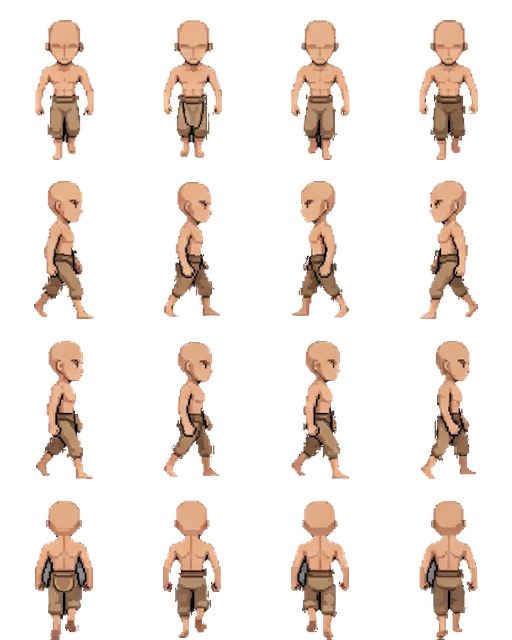
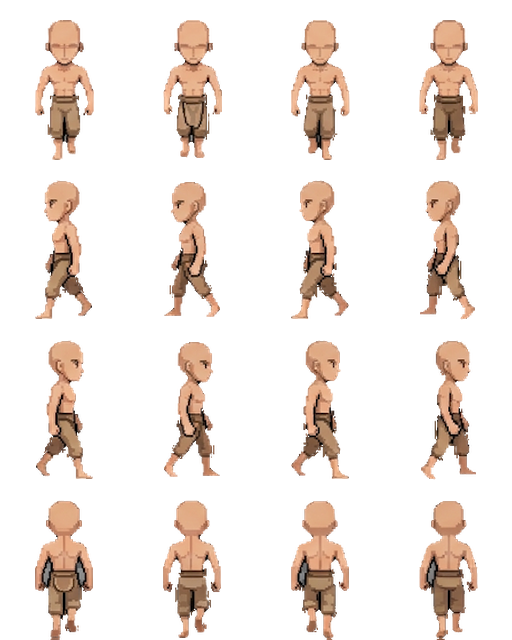
feat: update hero body spritesheets to mirror left-facing animations and adjust related logic

diff --git a/src/game/heroBody.js b/src/game/heroBody.js
@@ -3,14 +3,16 @@
  *
  * Four rows (front, left, right, back) x four walk frames. The runtime frames
  * are produced by scripts/build_hero_body.py, which re-anchors every frame to a
- * shared ground line and scaling so the body lines up with the old rig's feet.
+ * shared ground line and scaling so the body lines up with the old rig's feet,
+ * and rebuilds the left row as a mirror of the right row so each row holds one
+ * fixed facing.
  */
 
 import { HERO_DIRECTIONS } from "./heroDirections.js";
 import { normalizeGender } from "./gender.js";
 
 /** Bump this whenever the sheets are regenerated so browsers drop cached art. */
-const BODY_ASSET_VERSION = "2";
+const BODY_ASSET_VERSION = "3";
 
 export const HERO_BODY_TEXTURES = {
   male: { key: "hero-body-male", url: `/hero-body-male.png?v=${BODY_ASSET_VERSION}` },
@@ -36,23 +38,8 @@ export const HERO_BODY = {
   footOffsetY: FRAME_BOTTOM_MARGIN_PX * BODY_SCALE
 };
 
-/**
- * Sheet row for each of the eight facing directions.
- *
- * Row 1 (the source art's "left" row) is inconsistent: its first two walk
- * frames are drawn facing right and its last two facing left, so playing it
- * spins the hero on the spot. Row 2 is a complete, consistent right-facing
- * walk cycle, so every side-facing direction uses it and left-facing
- * directions mirror the sprite (see bodyMirrorsForDirection).
- */
-const ROW_BY_DIRECTION = [0, 2, 2, 2, 3, 2, 2, 2];
-
-/**
- * The source art has no distinct left profile: the "left" row is drawn facing
- * right, same as the right row. Left-facing directions therefore draw the sheet
- * mirrored so the hero looks the way it walks.
- */
-const MIRRORED_DIRECTIONS = [5, 6, 7];
+/** Sheet row for each of the eight facing directions (see heroDirections.js). */
+const ROW_BY_DIRECTION = [0, 2, 2, 2, 3, 1, 1, 1];
 
 /**
  * @param {"male"|"female"} gender
@@ -70,17 +57,6 @@ export function bodyRowForDirection(direction = 0) {
   const value = Number.isFinite(direction) ? direction : 0;
   const d = ((Math.round(value) % HERO_DIRECTIONS) + HERO_DIRECTIONS) % HERO_DIRECTIONS;
   return ROW_BY_DIRECTION[d];
-}
-
-/**
- * Whether the body sheet must be flipped horizontally for this direction.
- * @param {number} direction 0..7 (see heroDirections.js)
- * @returns {boolean}
- */
-export function bodyMirrorsForDirection(direction = 0) {
-  const value = Number.isFinite(direction) ? direction : 0;
-  const d = ((Math.round(value) % HERO_DIRECTIONS) + HERO_DIRECTIONS) % HERO_DIRECTIONS;
-  return MIRRORED_DIRECTIONS.includes(d);
 }
 
 /**

diff --git a/src/game/heroBody.test.js b/src/game/heroBody.test.js
@@ -1,10 +1,5 @@
 import { describe, expect, it } from "vitest";
-import {
-  bodyFrameForDirection,
-  bodyMirrorsForDirection,
-  bodyRowForDirection,
-  bodyTextureFor
-} from "./heroBody.js";
+import { bodyFrameForDirection, bodyRowForDirection, bodyTextureFor } from "./heroBody.js";
 
 describe("heroBody", () => {
   it("picks the sheet for each gender and falls back to male", () => {
@@ -15,26 +10,15 @@ describe("heroBody", () => {
 
   it("maps the eight directions onto the four sheet rows", () => {
     expect([0, 1, 2, 3, 4, 5, 6, 7].map(bodyRowForDirection)).toEqual([
-      0, 2, 2, 2, 3, 2, 2, 2
+      0, 2, 2, 2, 3, 1, 1, 1
     ]);
   });
 
   it("wraps out-of-range directions and ignores non-finite input", () => {
-    expect(bodyRowForDirection(-2)).toBe(2); // -2 wraps to direction 6 (left)
+    expect(bodyRowForDirection(-2)).toBe(1); // -2 wraps to direction 6 (left)
     expect(bodyRowForDirection(9)).toBe(2); // 9 wraps to direction 1 (down-right)
     expect(bodyRowForDirection(Number.NaN)).toBe(0);
     expect(bodyFrameForDirection(0, Number.NaN)).toBe(0);
-  });
-
-  it("mirrors the sheet for left-facing directions", () => {
-    expect(bodyMirrorsForDirection(6)).toBe(true); // left
-    expect(bodyMirrorsForDirection(5)).toBe(true); // up-left
-    expect(bodyMirrorsForDirection(7)).toBe(true); // down-left
-    expect(bodyMirrorsForDirection(2)).toBe(false); // right
-    expect(bodyMirrorsForDirection(0)).toBe(false); // down
-    expect(bodyMirrorsForDirection(4)).toBe(false); // up
-    expect(bodyMirrorsForDirection(-2)).toBe(true); // wraps to direction 6 (left)
-    expect(bodyMirrorsForDirection(Number.NaN)).toBe(false);
   });
 
   it("advances one walk column per quarter turn", () => {
@@ -48,7 +32,7 @@ describe("heroBody", () => {
 
   it("offsets frames by the direction's row", () => {
     expect(bodyFrameForDirection(4, 0)).toBe(12);
-    expect(bodyFrameForDirection(6, Math.PI / 2)).toBe(9);
+    expect(bodyFrameForDirection(6, Math.PI / 2)).toBe(5);
     expect(bodyFrameForDirection(2, Math.PI)).toBe(10);
   });
 });

diff --git a/src/game/heroRigView.js b/src/game/heroRigView.js
@@ -1,12 +1,7 @@
 import { buildHero, poseFor, limbPivots } from "./heroRig.js";
 import { normalizeGender } from "./gender.js";
 import { EQUIPMENT_SLOT_KEYS } from "./equipment.js";
-import {
-  HERO_BODY,
-  bodyFrameForDirection,
-  bodyMirrorsForDirection,
-  bodyTextureFor
-} from "./heroBody.js";
+import { HERO_BODY, bodyFrameForDirection, bodyTextureFor } from "./heroBody.js";
 import { buildBodyEquipment } from "./heroBodyEquipment.js";
 
 /** Distance from the rig container origin down to the character's feet (ground). */
@@ -88,7 +83,6 @@ export class HeroRigView {
       this.bodySprite = this.scene.add.sprite(0, HERO_BODY.footOffsetY, bodyTexture, this.frameIndex);
       this.bodySprite.setOrigin(0.5, 1);
       this.bodySprite.setScale(HERO_BODY.scale);
-      this.bodySprite.setFlipX(bodyMirrorsForDirection(direction));
       this.container.add(this.bodySprite);
       for (const primitive of buildBodyEquipment({ direction, equipment })) {
         const child = createPrimitive(this.scene, primitive);

diff --git a/src/game/heroRigView.test.js b/src/game/heroRigView.test.js
@@ -180,15 +180,14 @@ describe("HeroRigView baked body", () => {
     view.set(6, {}, "female");
 
     expect(view.bodySprite.texture).toBe("hero-body-female");
-    expect(view.bodySprite.frame).toBe(8); // side row (2) * 4 columns
-    expect(view.bodySprite.flipX).toBe(true); // left-facing art is mirrored
+    expect(view.bodySprite.frame).toBe(4); // left row (1) * 4 columns
   });
 
-  it("does not mirror right-facing directions", () => {
+  it("does not flip the sprite; the sheet has a real left row", () => {
     const scene = makeSpriteScene();
     const view = new HeroRigView(scene);
 
-    view.set(2, {}, "male");
+    view.set(6, {}, "male");
     expect(view.bodySprite.flipX).toBe(false);
   });
 

diff --git a/scripts/build_hero_body.py b/scripts/build_hero_body.py
@@ -1,15 +1,20 @@
 """Turn the 4x4 body sheets in docs/example into runtime spritesheets.
 
 The source art is laid out as four rows (front, left, right, back) with four
-walk frames per row. The generated sheets carry a checkerboard background and
-uneven margins, so this script:
+walk frames per row. The source's "left" row is unreliable: its first two
+frames face right and its last two face left, which makes the hero spin when
+the walk cycle plays, so the generated sheet rebuilds that row as a horizontal
+mirror of the consistent "right" row. The generated sheets also carry a
+checkerboard background and uneven margins, so this script:
 
 1. detects the four column/row bands from the foreground mask,
 2. keys the neutral-gray checkerboard out (with edge matting so no gray fringe
    survives),
 3. drops stray noise specks,
-4. re-anchors every frame to one ground line and normalises the row scale
-   before writing the public spritesheets consumed by heroBody.js.
+4. re-anchors every frame to one ground line and normalises the row scale,
+5. replaces the left row with a mirrored copy of the right row,
+
+before writing the public spritesheets consumed by heroBody.js.
 
 Run: python3 scripts/build_hero_body.py
 """
@@ -37,6 +42,10 @@ FRAME_H = 160
 CONTENT_H = 140
 CONTENT_BOTTOM = FRAME_H
 CONTENT_CENTER_X = FRAME_W // 2
+
+# Row order in the source art: front, left, right, back.
+LEFT_ROW = 1
+RIGHT_ROW = 2
 
 # Checkerboard cells are neutral gray; the art itself is warm-toned. Anything
 # this close to neutral (and this bright) is treated as background.
@@ -217,6 +226,14 @@ def _load_source(source):
     return rgba
 
 
+def _mirror_row(sheet, source_row, target_row):
+    """Replace `target_row` with a horizontally mirrored copy of `source_row`."""
+    for col in range(COLS):
+        box = (col * FRAME_W, source_row * FRAME_H, (col + 1) * FRAME_W, (source_row + 1) * FRAME_H)
+        frame = sheet.crop(box).transpose(Image.FLIP_LEFT_RIGHT)
+        sheet.paste(frame, (col * FRAME_W, target_row * FRAME_H))
+
+
 def build_sheet(source):
     rgba = _load_source(source)
     alpha = rgba[..., 3]
@@ -246,6 +263,9 @@ def build_sheet(source):
             paste_x = CONTENT_CENTER_X - scaled.width // 2
             paste_y = CONTENT_BOTTOM - lift - scaled.height
             out.alpha_composite(scaled, (col * FRAME_W + paste_x, row * FRAME_H + paste_y))
+
+    # The source left row mixes facings; derive it from the clean right row.
+    _mirror_row(out, RIGHT_ROW, LEFT_ROW)
 
     return out
 
